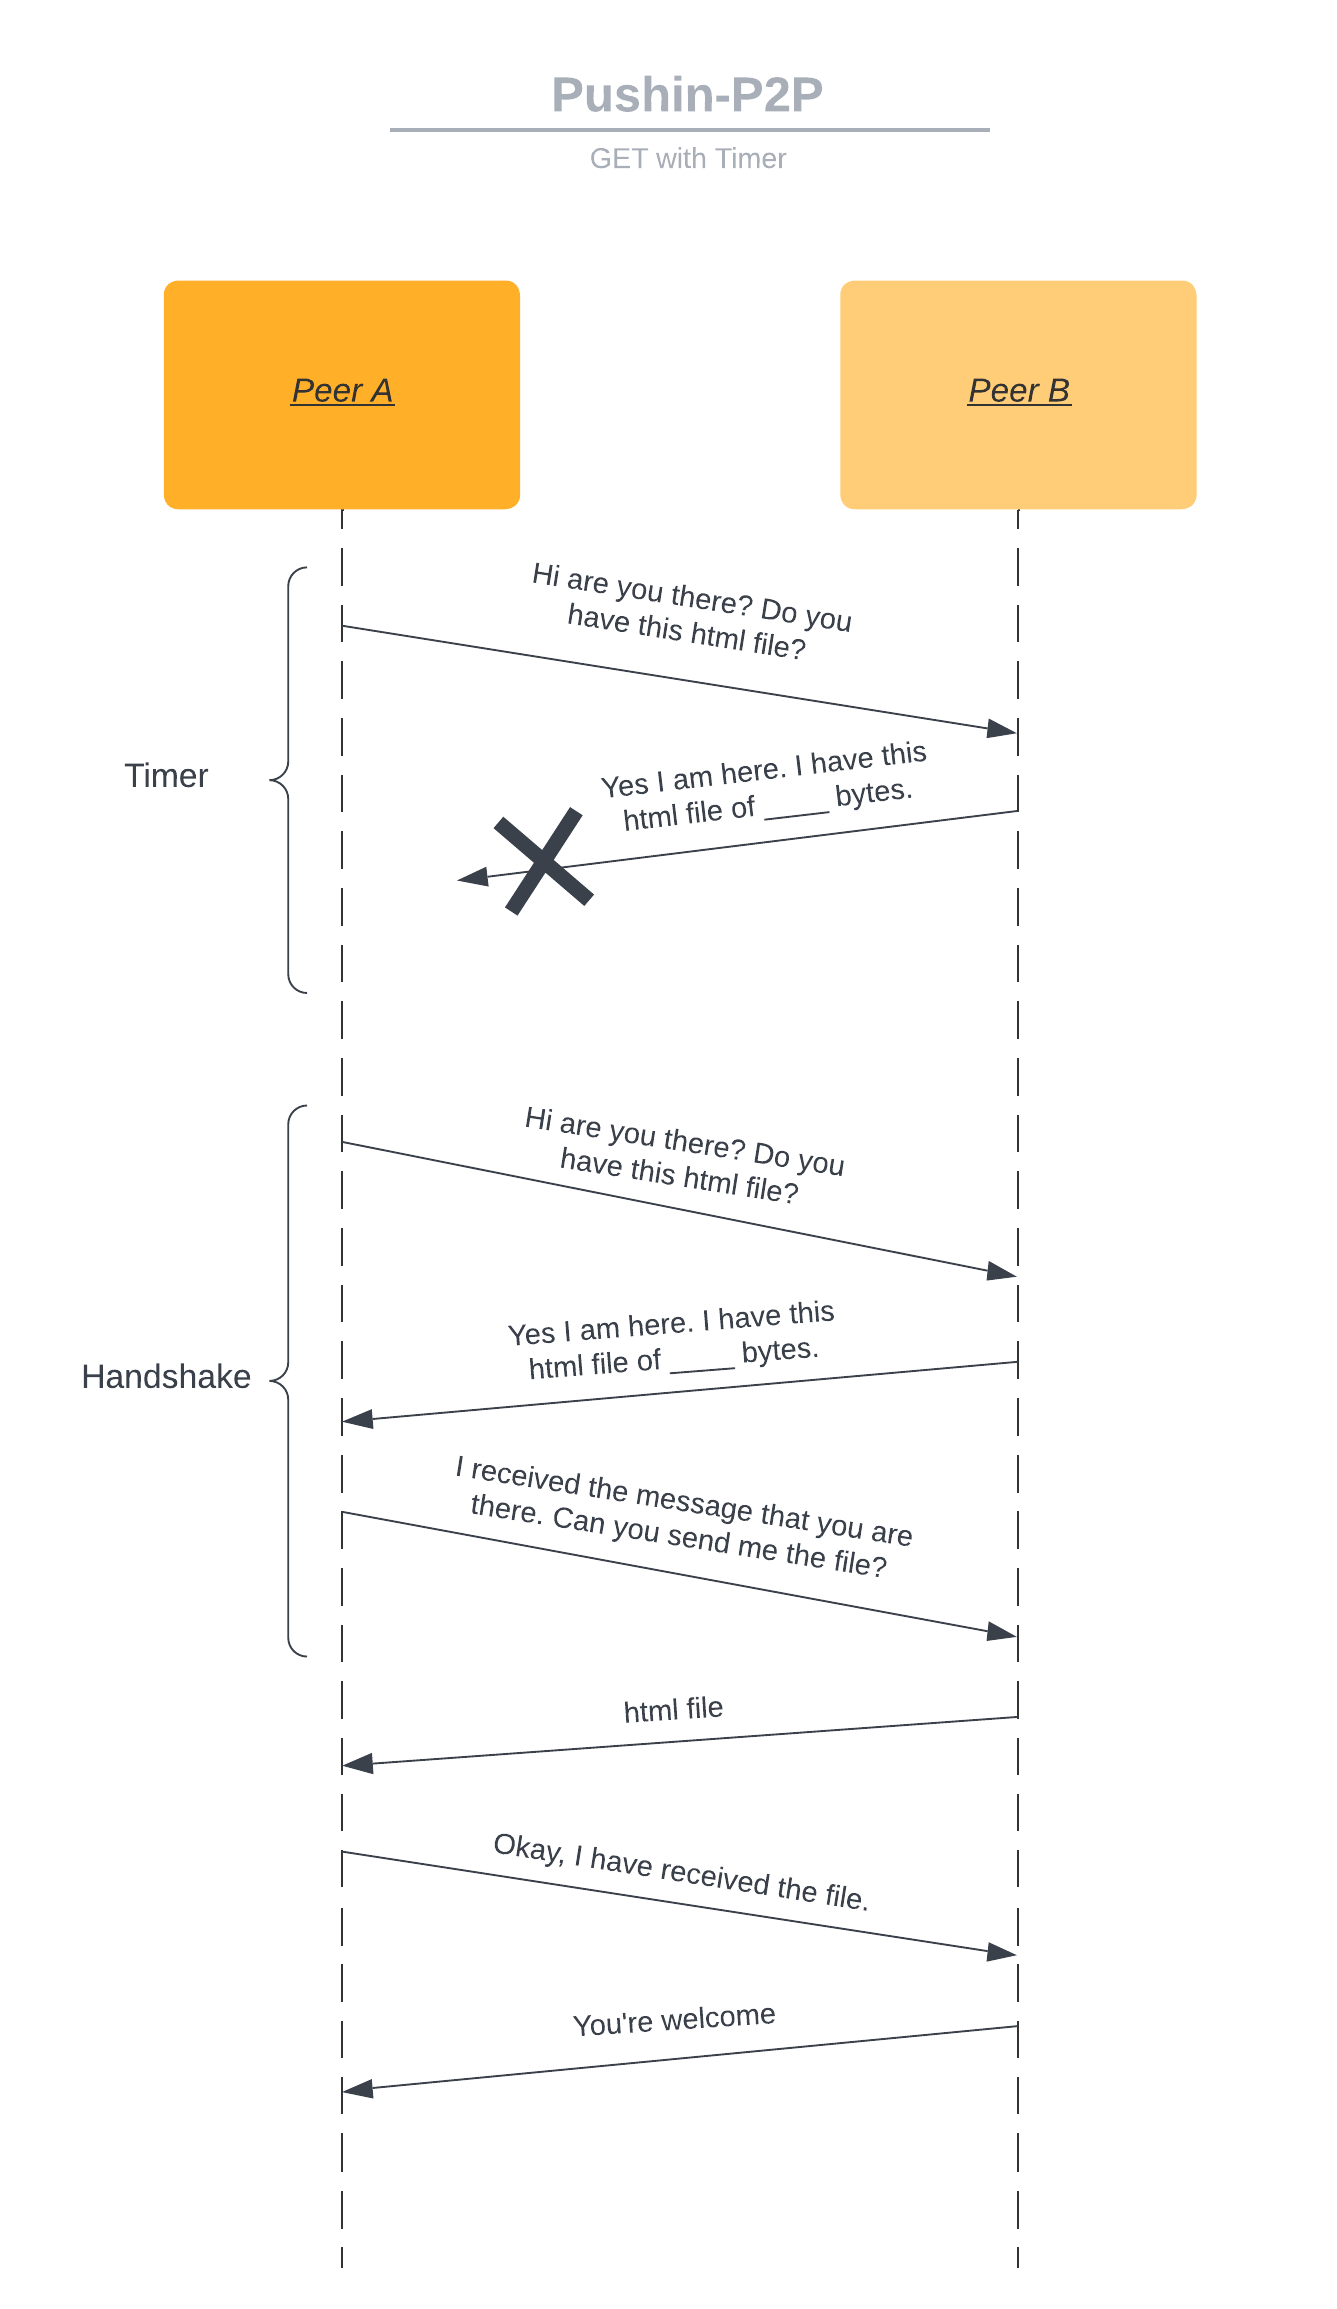
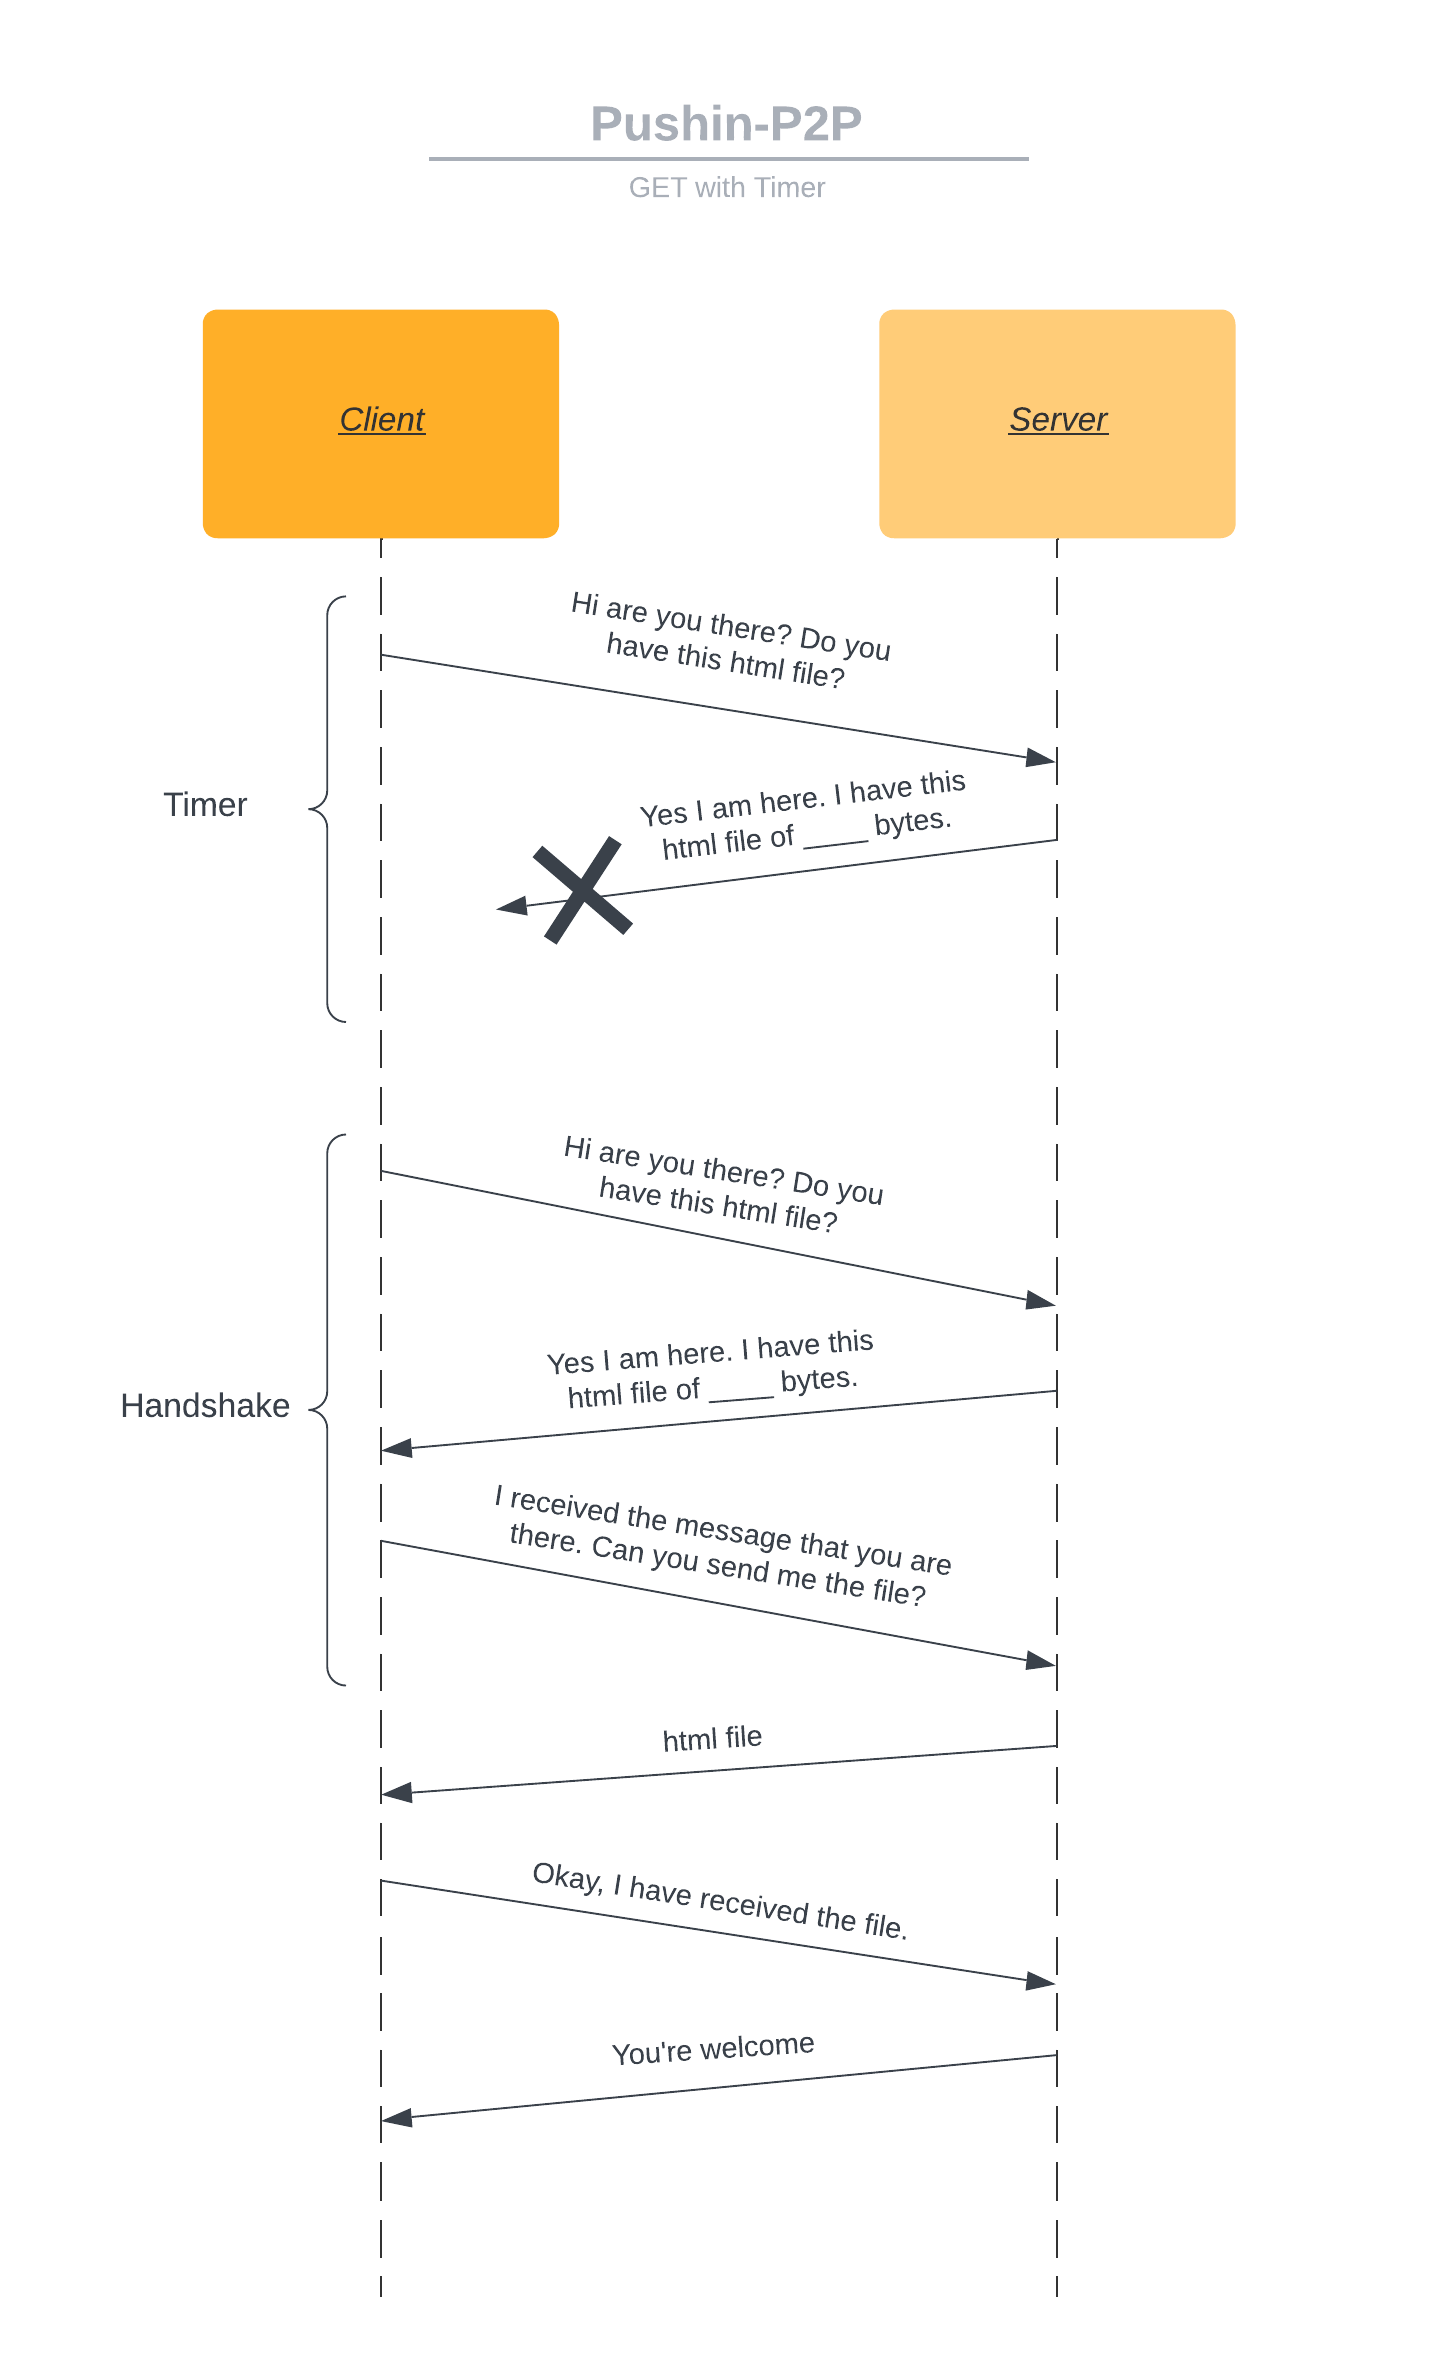
Updated the sequence diagrams
Changed the labels from Peer A & Peer B to CLIENT and SERVER to make it more clear which is on the receiving or giving end. Also added a note in the README explaining that.

diff --git a/README.md b/README.md
@@ -65,6 +65,9 @@ The program uses Python Socket and Multiprocessing libraries to handle incoming 
 
 ## Sequence Diagram
 
+Note that the labels used in the diagrams below are *CLIENT* and *SERVER*. However, the protocol is still **PEER TO PEER**.
+
+The terms *CLIENT* and *SERVER* are only used to display which **PEER** is on the recieving and sending end more clearly.
 
 ### GET Method
 a) Successful Process
